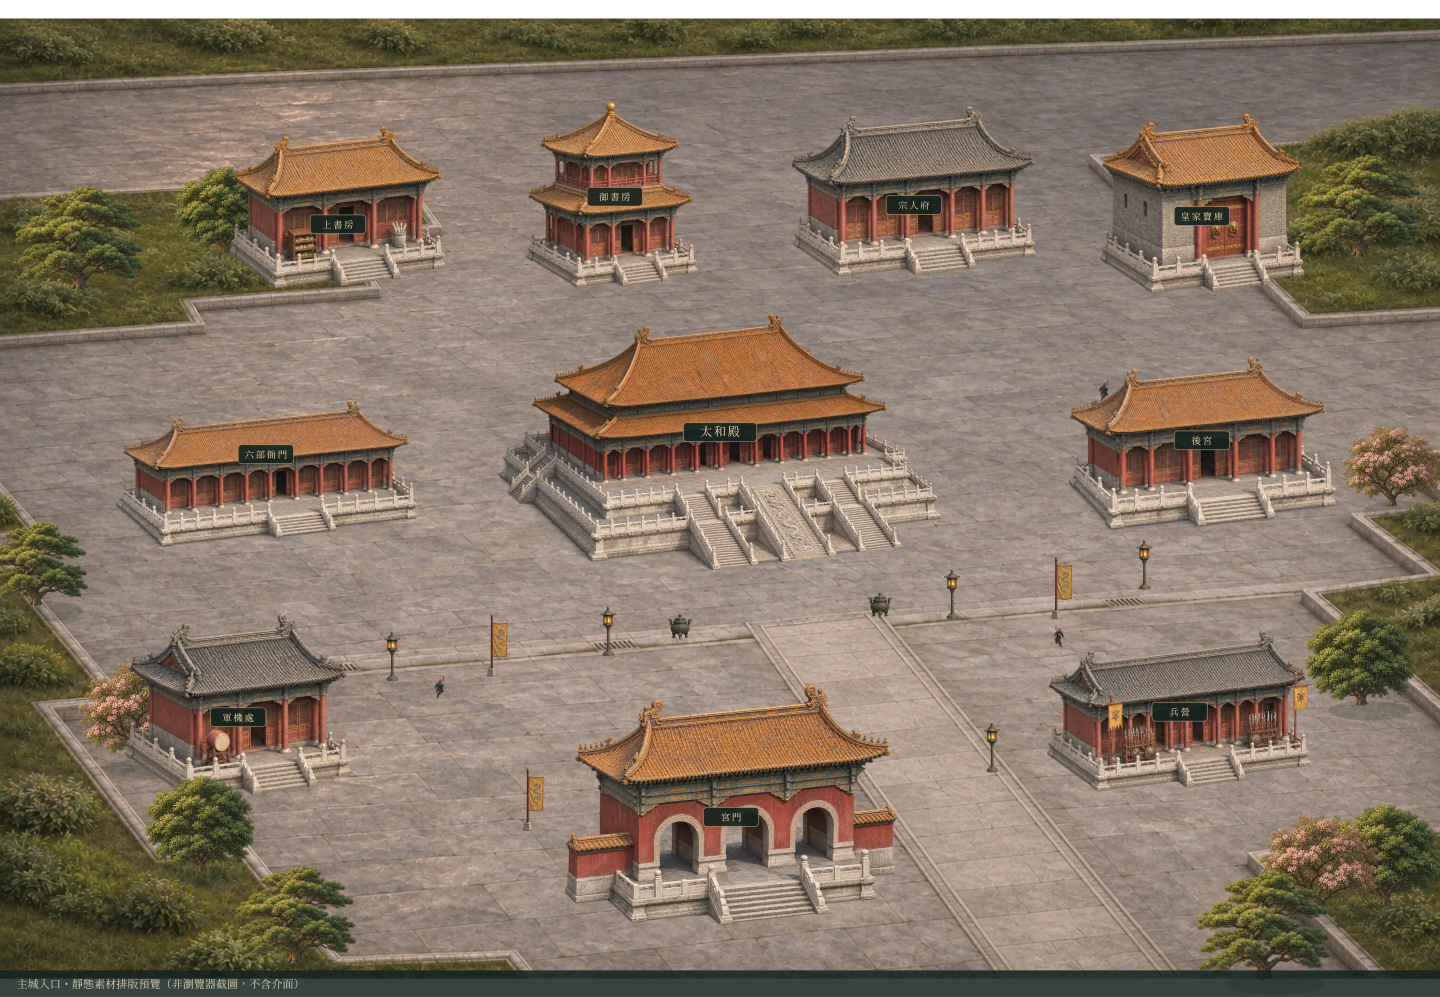
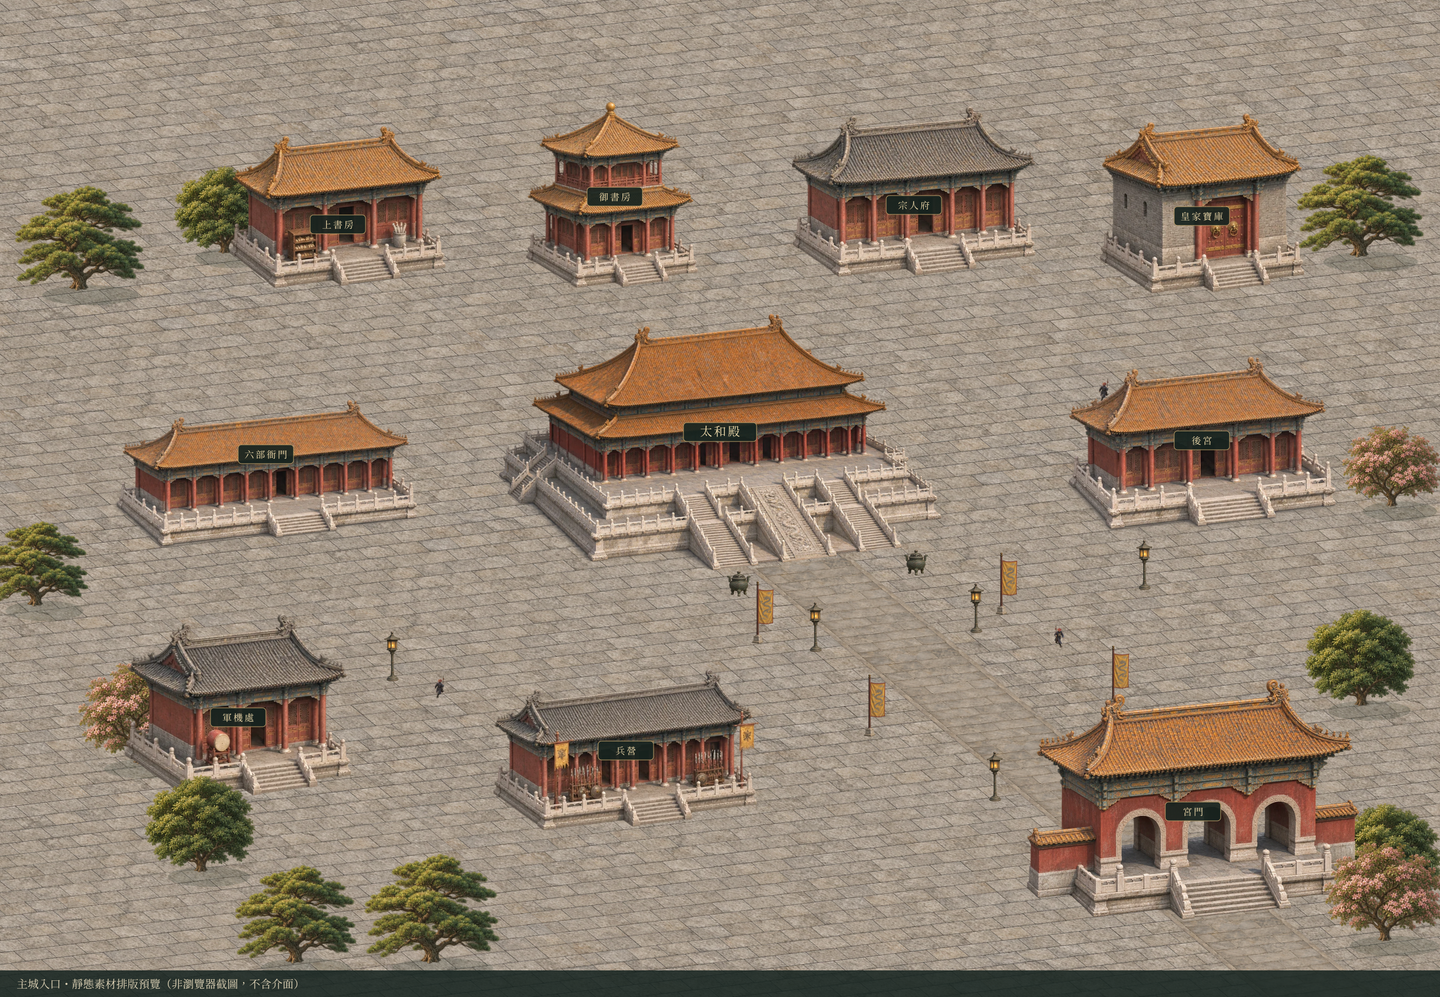
Align courtyard and imperial road with palace and gate foundations

diff --git a/experiments/pixi-palace-art-test/src/main.ts b/experiments/pixi-palace-art-test/src/main.ts
@@ -1,4 +1,4 @@
-import { Application, Assets, Container, Graphics, MeshPlane, Rectangle, Sprite, Text, Texture, WebGLRenderer } from 'pixi.js';
+import { Application, Assets, Container, Graphics, MeshPlane, Matrix, TilingSprite, Rectangle, Sprite, Text, Texture, WebGLRenderer } from 'pixi.js';
 import './style.css';
 import { setupPortals } from './portals';
 const portalUI=setupPortals();
@@ -7,6 +7,7 @@ import { cameraBounds, zoomTransform } from './camera';
 import { BuildingLayout, loadLayout, saveLayout, clearLayout } from './building-layout';
 import type { BuildingSpec, LayoutStorage } from './building-layout';
 import { SceneGestures } from './gestures';
+import { groundCoverage } from './ground';
 
 type AssetRecord = { name: string; file: string; width: number; height: number; bytes: number };
 type Manifest = { assets: AssetRecord[]; totalBytes: number };
@@ -64,7 +65,19 @@ function addLamp(x:number,y:number) {
   glow.circle(0,0,4).fill({color:0xffe6a5,alpha:.85});glow.position.set(x,y-47);glow.blendMode='add';lightLayer.addChild(glow);lamps.push(glow);
 }
 function buildScene() {
-  const ground = new Sprite(tex.courtyard);ground.width=WIDTH;ground.height=HEIGHT;floor.addChild(ground);
+  const basis=layout.ground.basis;
+  const coverage=groundCoverage(basis,WIDTH,HEIGHT);
+  const plane=new Container();plane.setFromMatrix(new Matrix(basis.a,basis.b,basis.c,basis.d,0,0));
+  const ground=new TilingSprite({texture:tex.courtyard,width:coverage.width,height:coverage.height});
+  ground.position.set(coverage.x,coverage.y);ground.tileScale.set(layout.ground.tileScale);
+  plane.addChild(ground);floor.addChild(plane);
+  const roadSpec=layout.ground.road;
+  const roadPlane=new Container();roadPlane.setFromMatrix(new Matrix(basis.a,basis.b,basis.c,basis.d,roadSpec.x,roadSpec.y));
+  const road=new TilingSprite({texture:tex['imperial-road'],width:roadSpec.width,height:roadSpec.length});
+  road.x=-roadSpec.width/2;road.tileScale.set(roadSpec.width/tex['imperial-road'].width);
+  roadPlane.addChild(road);floor.addChild(roadPlane);
+  const groundMask=new Graphics().rect(0,0,WIDTH,HEIGHT).fill(0xffffff);
+  world.addChild(groundMask);floor.mask=groundMask;
   // A coherent architectural sprite includes the hall, three-tier plinth and stairs.
   // Terrain, vegetation, flags, guards, labels and effects remain independent layers.
   const definitions = layout.buildings;

diff --git a/experiments/pixi-palace-art-test/src/ground.ts b/experiments/pixi-palace-art-test/src/ground.ts
@@ -1,0 +1,22 @@
+/** Shared ground-plane projection for Pixi and the static art proof.
+ * Material images are top-down; only this transform introduces perspective.
+ * The basis is an artistic fit to the Taihe plinth edges, not a surveyed camera.
+ */
+export type GroundBasis = { a:number; b:number; c:number; d:number };
+export type GroundPoint = { x:number; y:number };
+export function projectGround(basis:GroundBasis,p:GroundPoint):GroundPoint {
+ return {x:basis.a*p.x+basis.c*p.y,y:basis.b*p.x+basis.d*p.y};
+}
+export function unprojectGround(basis:GroundBasis,p:GroundPoint):GroundPoint {
+ const det=basis.a*basis.d-basis.b*basis.c;
+ if(Math.abs(det)<1e-8)throw new Error('Ground projection must be invertible');
+ return {x:(basis.d*p.x-basis.c*p.y)/det,y:(basis.a*p.y-basis.b*p.x)/det};
+}
+export function groundCoverage(basis:GroundBasis,width:number,height:number){
+ const corners=[{x:0,y:0},{x:width,y:0},{x:0,y:height},{x:width,y:height}].map(p=>unprojectGround(basis,p));
+ const x=Math.floor(Math.min(...corners.map(p=>p.x)))-2,y=Math.floor(Math.min(...corners.map(p=>p.y)))-2;
+ return {x,y,width:Math.ceil(Math.max(...corners.map(p=>p.x)))-x+2,height:Math.ceil(Math.max(...corners.map(p=>p.y)))-y+2};
+}
+export function roadCorners(basis:GroundBasis,road:{x:number;y:number;width:number;length:number}){
+ return [{x:-road.width/2,y:0},{x:road.width/2,y:0},{x:road.width/2,y:road.length},{x:-road.width/2,y:road.length}].map(p=>{const q=projectGround(basis,p);return{x:q.x+road.x,y:q.y+road.y};});
+}

diff --git a/experiments/pixi-palace-art-test/README.md b/experiments/pixi-palace-art-test/README.md
@@ -2,7 +2,11 @@
 
 獨立 Vite + TypeScript + PixiJS 8 專案。十座可點選、可拖移建築，七個固定捷徑，完整入口分頁、詳情、示範選項與效果預覽。保留石磚廣場、階梯、樹木、四面旗與四名巡邏士兵。
 
-**本次交付為介面原型，所有人物與數值皆為示範，不連接正式遊戲、存檔或任何後端。** 主城入口、流程及限制見 [PORTALS.md](docs/PORTALS.md)。新增七張建築 WebP；19 張執行素材共 2,097,098 bytes。已完成靜態素材排版檢查；瀏覽器預覽服務失敗，畫面、實際互動、載入傳輸量與 FPS 尚未實測。
+**本次交付為介面原型，所有人物與數值皆為示範，不連接正式遊戲、存檔或任何後端。** 主城入口、流程及限制見 [PORTALS.md](docs/PORTALS.md)。本次重製廣場並新增御道，共 20 張執行素材、2,513,912 bytes。已完成靜態素材排版檢查；瀏覽器預覽服務失敗，畫面、實際互動、載入傳輸量與 FPS 尚未實測。
+
+## 本次地面修正
+
+已重製廣場並拆出御道，校正宮門、兵營及附近樹木的預設位置。詳見 [對位說明](docs/GROUND-ALIGNMENT.md) 及 [局部預覽](docs/ground-alignment-detail.png)。如果瀏覽器已有自訂配置，仍會載入舊位置；需要新版預設構圖時，按「配置模式 → 還原配置」。
 
 ## 本機啟動
 
@@ -52,7 +56,7 @@ npm run preview
 
 位置只保存在目前瀏覽器的同一網站來源（含埠號）。例如 `localhost:5173` 與 `localhost:4173` 各自保存；不同裝置或瀏覽器不會同步，不會修改 `src/layout.json` 或正式遊戲存檔。若瀏覽器封鎖儲存或空間不足，會提示配置只保留於本次頁面。儲存鍵為 `dachikingdom:pixi-palace:city-layout:v1`，還原不清除其他儲存資料。
 
-觸控取消、意外失去指標捕捉、視窗失焦會取消尚未完成的單指拖移；切換配置模式會保存已移動的位置。巡邏路線維持固定，建築可能移到士兵路線上造成遮擋，沒有自動尋路或防重疊。地面植栽及中央通道不會跟著建築移動。
+觸控取消、意外失去指標捕捉、視窗失焦會取消尚未完成的單指拖移；切換配置模式會保存已移動的位置。巡邏路線維持固定，建築可能移到士兵路線上造成遮擋，沒有自動尋路或防重疊。樹木及獨立御道不會跟著建築移動。
 
 手動編輯 `src/layout.json` 後，可按 **還原配置** 採用新的預設位置。文件中的靜態排版預覽只顯示預設配置，不會讀取瀏覽器保存的位置。
 
@@ -60,21 +64,22 @@ npm run preview
 
 - `src/portal-data.ts`／`src/portals.ts`：主城入口資料、導航狀態、示範表單及原生 HTML 面板。
 - `src/main.ts`：場景分層、深度排序、巡邏、旗布網格動畫、互動及效能採樣。
+- `src/ground.ts`：地面共用投影、逆投影與覆蓋範圍；PixiJS 與靜態預覽使用相同計算。
 - `src/camera.ts`：鏡頭縮放及邊界計算。
 - `src/building-layout.ts`：建築位置、同比例點擊輪廓、標籤偏移、深度、儲存驗證與還原。
 - `src/gestures.ts`：單指拖建築／鏡頭、雙指切換與取消手勢。
 - `src/layout.json`：遊戲與靜態排版預覽共用的場景座標。
 - `scripts/render-layout.mjs`：輸出實際素材排版證明圖，不執行 PixiJS、不測量 FPS。
-- `public/assets/`：執行時只載入 19 張 WebP 與 JSON manifest。
-- `source-art/`：8 張生成素材的原始 PNG；不進入 production build。
+- `public/assets/`：執行時只載入 20 張 WebP 與 JSON manifest。
+- `source-art/`：9 張生成素材的原始 PNG；不進入 production build。
 - `scripts/prepare-assets.mjs`：以 Sharp 裁切、透明邊緣修整、WebP 編碼；`npm run assets` 可重建。
-- `tests/`：21 項自動測試，涵蓋入口導航、預覽選項、資料隔離、建築拖移、儲存、手勢交接、游標中心縮放與鏡頭邊界。
+- `tests/`：25 項自動測試，涵蓋入口導航、預覽選項、資料隔離、建築拖移、儲存、手勢交接、游標中心縮放與鏡頭邊界。
 - `docs/ASSETS.md`：素材尺寸、來源、容量與限制。
 - `docs/PERFORMANCE.md`：驗證結果與可重現的測量方式。
 
 ## 美術素材
 
-太和殿、配殿、地面、樹木、士兵、旗幟與銅器均重新生成。採較高的西南斜俯視角、陶瓦質感、深朱紅木構與有風化細節的漢白玉；主殿與三層台基一起生成以避免拼接比例差異。配殿沿用主殿圖作為視覺參考。地面改為斜向石磚及低矮植栽帶，樹木落點對應植栽區；士兵改為俯視四方向、每方向兩幀。
+太和殿、配殿、地面、樹木、士兵、旗幟與銅器均重新生成。採較高的西南斜俯視角、陶瓦質感、深朱紅木構與有風化細節的漢白玉；主殿與三層台基一起生成以避免拼接比例差異。配殿沿用主殿圖作為視覺參考。本次另將地面重製成正俯視石磚材質，御道獨立一層，兩者由同一投影矩陣渲染。士兵為俯視四方向、每方向兩幀。
 
 ![十建築主城靜態排版預覽](docs/art-layout-preview.png)
 

diff --git a/experiments/pixi-palace-art-test/docs/ASSETS.md b/experiments/pixi-palace-art-test/docs/ASSETS.md
@@ -1,6 +1,6 @@
 # 美術素材清單 · 主城入口
 
-沿用第二次重製的六張來源 PNG，新增 city-buildings 與 gate 兩張來源圖，共八張 PNG、十九張執行用 WebP。來源為本次對話的圖片生成工具；未擷取《新三國志》遊戲素材，未把含 UI 的概念圖作為遊戲背景。
+本次替換 courtyard 為正俯視石磚材質，新增 imperial-road 正俯視御道；其餘建築與物件素材保留，共九張來源 PNG、二十張執行用 WebP。來源為本次對話的圖片生成工具；未擷取《新三國志》遊戲素材，未把含 UI 的概念圖作為遊戲背景。
 
 | 素材 | 執行檔案 | 實際像素 | bytes | 透明背景 |
 | --- | --- | --- | ---: | --- |
@@ -10,7 +10,8 @@
 | 松樹 | assets/pine.webp | 501 × 408 | 104284 | 有 |
 | 闊葉樹 | assets/broadleaf.webp | 496 × 438 | 114964 | 有 |
 | 花樹 | assets/blossom.webp | 500 × 407 | 117598 | 有 |
-| 石磚廣場及低矮植栽帶 | assets/courtyard.webp | 1536 × 1024 | 303096 | 無，純地面與低植栽 |
+| 正俯視石磚材料 | assets/courtyard.webp | 1536 × 1024 | 583602 | 無，鋪滿地面 |
+| 正俯視御道材料 | assets/imperial-road.webp | 512 × 768 | 136308 | 無，獨立地面圖層 |
 | 旗杆 | assets/flagpole.webp | 106 × 597 | 14776 | 有 |
 | 龍紋旗布 | assets/banner.webp | 254 × 560 | 61820 | 有 |
 | 宮燈 | assets/lantern.webp | 181 × 562 | 25548 | 有 |
@@ -24,19 +25,19 @@
 | 皇家寶庫 | assets/treasury.webp | 464 × 408 | 73898 | 有 |
 | 宮門 | assets/gate.webp | 1024 × 740 | 297098 | 有 |
 
-WebP 合計 **2097098 bytes**。來源、尺寸及 SHA-256 見 manifest.json。原始 PNG 不由網站載入。
+WebP 合計 **2513912 bytes**。來源、尺寸及 SHA-256 見 manifest.json。原始 PNG 不由網站載入。
 
 ## 畫面方向
 
 - 以重製太和殿為配殿、植栽與道具的視覺參考：固定西南方向斜俯視、可見建築前方與左側、左上方日光。
 - 瓦面改為霧面赭金陶瓦，朱紅木構降低飽和度；保留灰白石材的細節與陰影。
 - 主殿與台基、階梯整體生成；地面、樹木、人物、旗幟、燈光、標籤仍各自分層。
-- 地面與植栽獨立，十座建築分布於主殿周邊；沒有將建築或人物烘焙到地面。新增機構建築使用灰瓦／赭金屋頂及各自可辨識的輪廓。
+- 地面與御道共用一組投影，植栽另置；十座建築分布於主殿周邊，沒有將建築或人物烘焙到地面。新增機構建築使用灰瓦／赭金屋頂及各自可辨識的輪廓。
 - 人物改成俯視圖，每格 128×96，四方向各兩幀。沒有把幾乎相同的六幀宣稱為完整步行動畫。
 
 ## 檔案與重建
 
-`source-art/` 內為 taihe、architecture（兩座配殿）、courtyard、trees（三種樹）、guards、props、city-buildings（六座新附屬建築）、gate 共八張原圖。`npm run assets` 以 Sharp 做固定裁切、透明留白修整及 WebP 編碼；`npm test` 檢查尺寸、容量、透明通道、動畫格線及雜湊。
+`source-art/` 內為 taihe、architecture（兩座配殿）、courtyard、trees（三種樹）、guards、props、city-buildings（六座新附屬建築）、gate、imperial-road 共九張原圖。`npm run assets` 以 Sharp 做固定裁切、透明留白修整及 WebP 編碼；`npm test` 檢查尺寸、容量、透明通道、動畫格線及雜湊。
 
 `src/layout.json` 同時提供給 PixiJS 場景及 `scripts/render-layout.mjs`。`docs/art-layout-preview.png` 是實際素材排版證明圖，不是遊戲背景或 PixiJS 瀏覽器截圖。
 

diff --git a/experiments/pixi-palace-art-test/docs/GROUND-ALIGNMENT.md b/experiments/pixi-palace-art-test/docs/GROUND-ALIGNMENT.md
@@ -1,0 +1,37 @@
+# 地面與宮門對位修正 · ground-alignment-1
+
+## 原因與修正
+
+原廣場是一張已帶透視、花台和固定御道的圖片，1536 × 1024 被拉成 2600 × 1800；建築卻使用等比例縮放。太和殿與宮門的預設 X 分別為 1300、1320，近乎垂直排列，與原御道朝右下延伸的方向不符。
+
+本次重新生成兩張正俯視材料圖：基礎石磚、帶細石邊的御道。石磚使用一個重複紋理平面，御道使用另一個重複紋理平面；兩層都套用相同的矩陣，不再拉伸一張已帶透視的完整廣場圖。地面裁切到 2600 × 1800 的場景範圍。
+
+`src/layout.json` 的 `ground.basis` 定義地面座標如何投影到場景：
+
+- 橫向軸：`(1, -0.12)`，約向右上 6.8°。
+- 前向軸：`(0.72, 0.60)`，約向右下 39.8°。
+- 御道起點 `(1444, 1016)`，地面寬度 180，長度 1500；與基礎鋪磚同軸。
+
+這是根據太和殿台基與宮門底座邊線選擇的美術近似投影，不是由生成圖片反推出精確相機或歷史測繪結果。素材本身的局部透視仍可能有差異。
+
+## 預設位置
+
+宮門從 `(1320, 1670)` 移到 `(2154, 1660)`，使前階梯落點接上御道；為騰出宮門後方，兵營從 `(2130, 1430)` 移到 `(1130, 1500)`。兩棵前景樹的位置一起調整，避免遮住御道。香爐、旗幟及沿道宮燈依共同地面座標移到御道兩側，避免擋住通道。其他八座建築的預設位置與十張建築素材均保留。
+
+自動檢查使用素材上的人工近似落地標記：太和殿 `(u=.68,v=.97)`、宮門 `(u=.61,v=.99)`。標記距御道中線小於 12 個地面座標單位；這只驗證預設對位，不代表整張建築透視精確一致。
+
+## 配置相容
+
+保持原 `dachikingdom:pixi-palace:city-layout:v1` 儲存鍵與 `city-portals-1` 配置識別。既有十建築自訂位置會原樣載入，不自動改成新位置。要查看新版預設構圖，進入配置模式後按「還原配置」。該操作會清除本機這份自訂配置，請在需要還原時使用。
+
+御道是一個獨立但固定的場景圖層，不會因自由拖移建築而自動改道；這次沒有新增道路編輯器或尋路。
+
+## 檢查方式與限制
+
+- `src/ground.ts` 的投影和範圍計算供 PixiJS 與靜態輸出共用。
+- `npm test` 檢查完整地面覆蓋、矩陣可逆、御道與地面同軸、預設階梯落點及舊配置可載入。
+- `node scripts/render-layout.mjs` 產生完整場景及階梯／御道／宮門局部圖，使用實際 WebP 和同一份場景座標。
+- `docs/art-layout-preview.png`、`docs/ground-alignment-detail.png` 為靜態美術檢查圖，不是瀏覽器截圖、不含 HTML 介面，也不能用來推論 FPS。
+- 瀏覽器預覽轉送仍逾時；PixiJS 的實際紋理重複、裁切、鏡頭縮放與手機效果待瀏覽器驗證。
+
+正式遊戲功能、數值、版本號、存檔與部署流程未修改。只提交實驗分支。

diff --git a/experiments/pixi-palace-art-test/docs/PERFORMANCE.md b/experiments/pixi-palace-art-test/docs/PERFORMANCE.md
@@ -6,18 +6,22 @@
 | --- | --- |
 | TypeScript 型別檢查、Vite production build | 通過 |
 | 游標中心縮放（含上下限）、桌面／直式鏡頭邊界測試 | 通過，2 個測試案例，涵蓋多組比例及視窗尺寸 |
-| 建築配置狀態與手勢邏輯 | 通過，13 個編輯測試、2 個鏡頭測試、6 個入口／預覽測試，共 21 項 |
-| 19 張 WebP 的尺寸、透明通道、SHA-256、檔案容量與動畫格線 | 通過，19 張素材全部符合 manifest |
-| WebP 實際檔案容量 | 2,097,098 bytes（2.097 MB / 2.000 MiB） |
+| 建築配置狀態與手勢邏輯 | 通過，13 個編輯測試、2 個鏡頭測試、6 個入口／預覽測試、4 個地面投影／對位／舊配置測試，共 25 項 |
+| 20 張 WebP 的尺寸、透明通道、SHA-256、檔案容量與動畫格線 | 通過，20 張素材全部符合 manifest |
+| WebP 實際檔案容量 | 2,513,912 bytes（2.514 MB / 2.397 MiB） |
 | 實際冷載入傳輸容量 | 未測，不以檔案容量代替網路傳輸量 |
 | 桌面 FPS | 未測 |
 | 手機實機 FPS／雙指縮放 | 未測 |
 | 十建築主城素材的靜態排版檢查 | 已檢查；由共用座標與實際 WebP 排版，非 PixiJS 截圖 |
 | 配置模式、晝夜、高亮、拖曳、遮擋的瀏覽器驗收 | 未完成 |
 
-阻塞原因：managed preview 回報 `relay could not open browser port 4173: timed out waiting for relay readiness`。初始化並啟動雲端瀏覽器後再試仍相同。未改用另一個伺服器或繞過預覽基礎設施。本次主城入口實作重新嘗試 `sites-preview start`，仍回報同樣的 relay 逾時，`sites-preview status` 回報 stopped。無法由成功編譯或靜態排版圖推論瀏覽器操作或效能合格。
+阻塞原因：managed preview 回報 `relay could not open browser port 4173: timed out waiting for relay readiness`。初始化並啟動雲端瀏覽器後再試仍相同。未改用另一個伺服器或繞過預覽基礎設施。本次地面對位修正重新嘗試 `sites-preview start`，仍回報同樣的 relay 逾時，`sites-preview status` 回報 stopped。無法由成功編譯或靜態排版圖推論瀏覽器操作或效能合格。
 
 開發環境套件：PixiJS 8.23.0、Vite 7.3.8、TypeScript 5.9.3、Sharp 0.34.5、Node 24.22.3。實際鎖定版本見 package-lock.json。
+
+## 地面對位驗證
+
+完整地面覆蓋、逆投影、御道與鋪磚共軸、階梯標記落點與舊配置保存新增四項測試。完整與局部靜態圖已檢視；宮門素材可沿用，沒有宣稱其內部透視完全精確。PixiJS 的平鋪紋理、遮罩與實際 GPU 效果仍未經瀏覽器驗證。
 
 ## 主城入口驗證
 

diff --git a/experiments/pixi-palace-art-test/docs/PORTALS.md b/experiments/pixi-palace-art-test/docs/PORTALS.md
@@ -51,3 +51,7 @@
 本次更新僅在 `experiment/pixi-palace-art-test` 的獨立目錄，正式版本號保持不變。新增七張建築 WebP，由兩張新來源圖裁切／編碼，共十九張 WebP。具體容量與測試結果見 PERFORMANCE.md。
 
 所有瀏覽器／手機交互、焦點、遮擋及響應式版面仍須實機驗收；自動測試不等同瀏覽器測試。預覽基礎設施轉送逾時，尚未取得實際 FPS。
+
+## 地面對位修正
+
+`ground-alignment-1` 更新了廣場／御道素材與預設宮門、兵營、兩棵樹的位置；十座建築素材與入口規則保持原樣。舊配置仍載入，按還原配置才套用新預設。參見 GROUND-ALIGNMENT.md。
